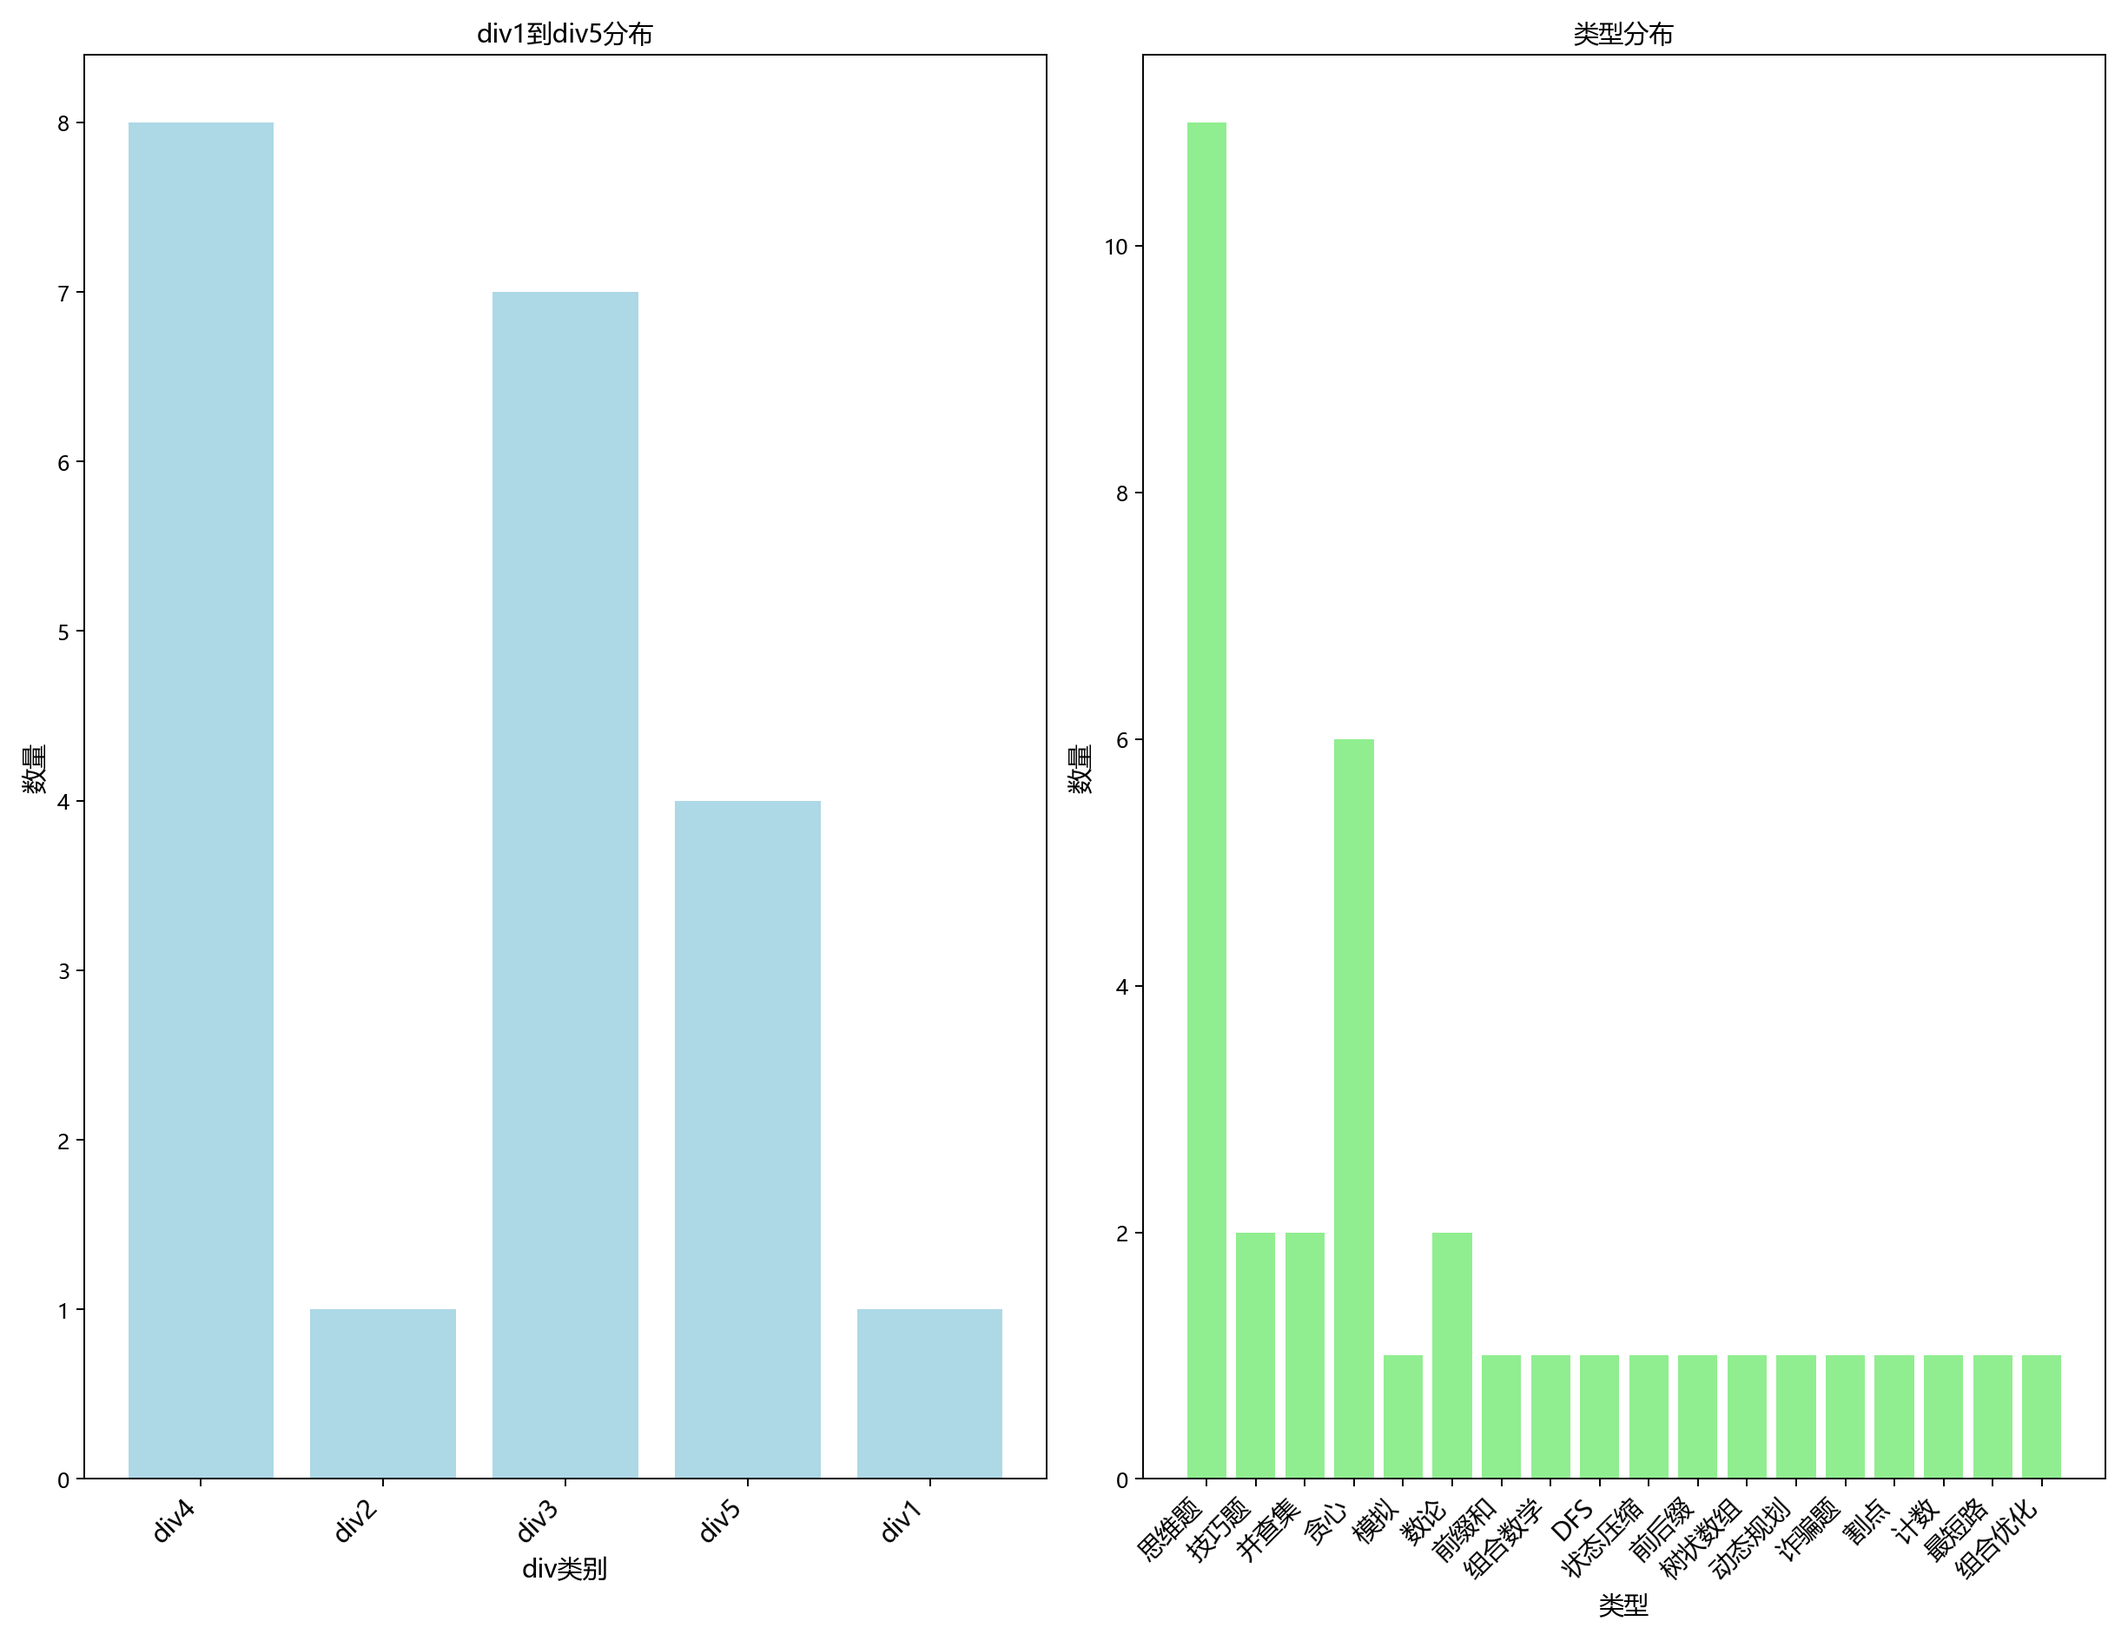
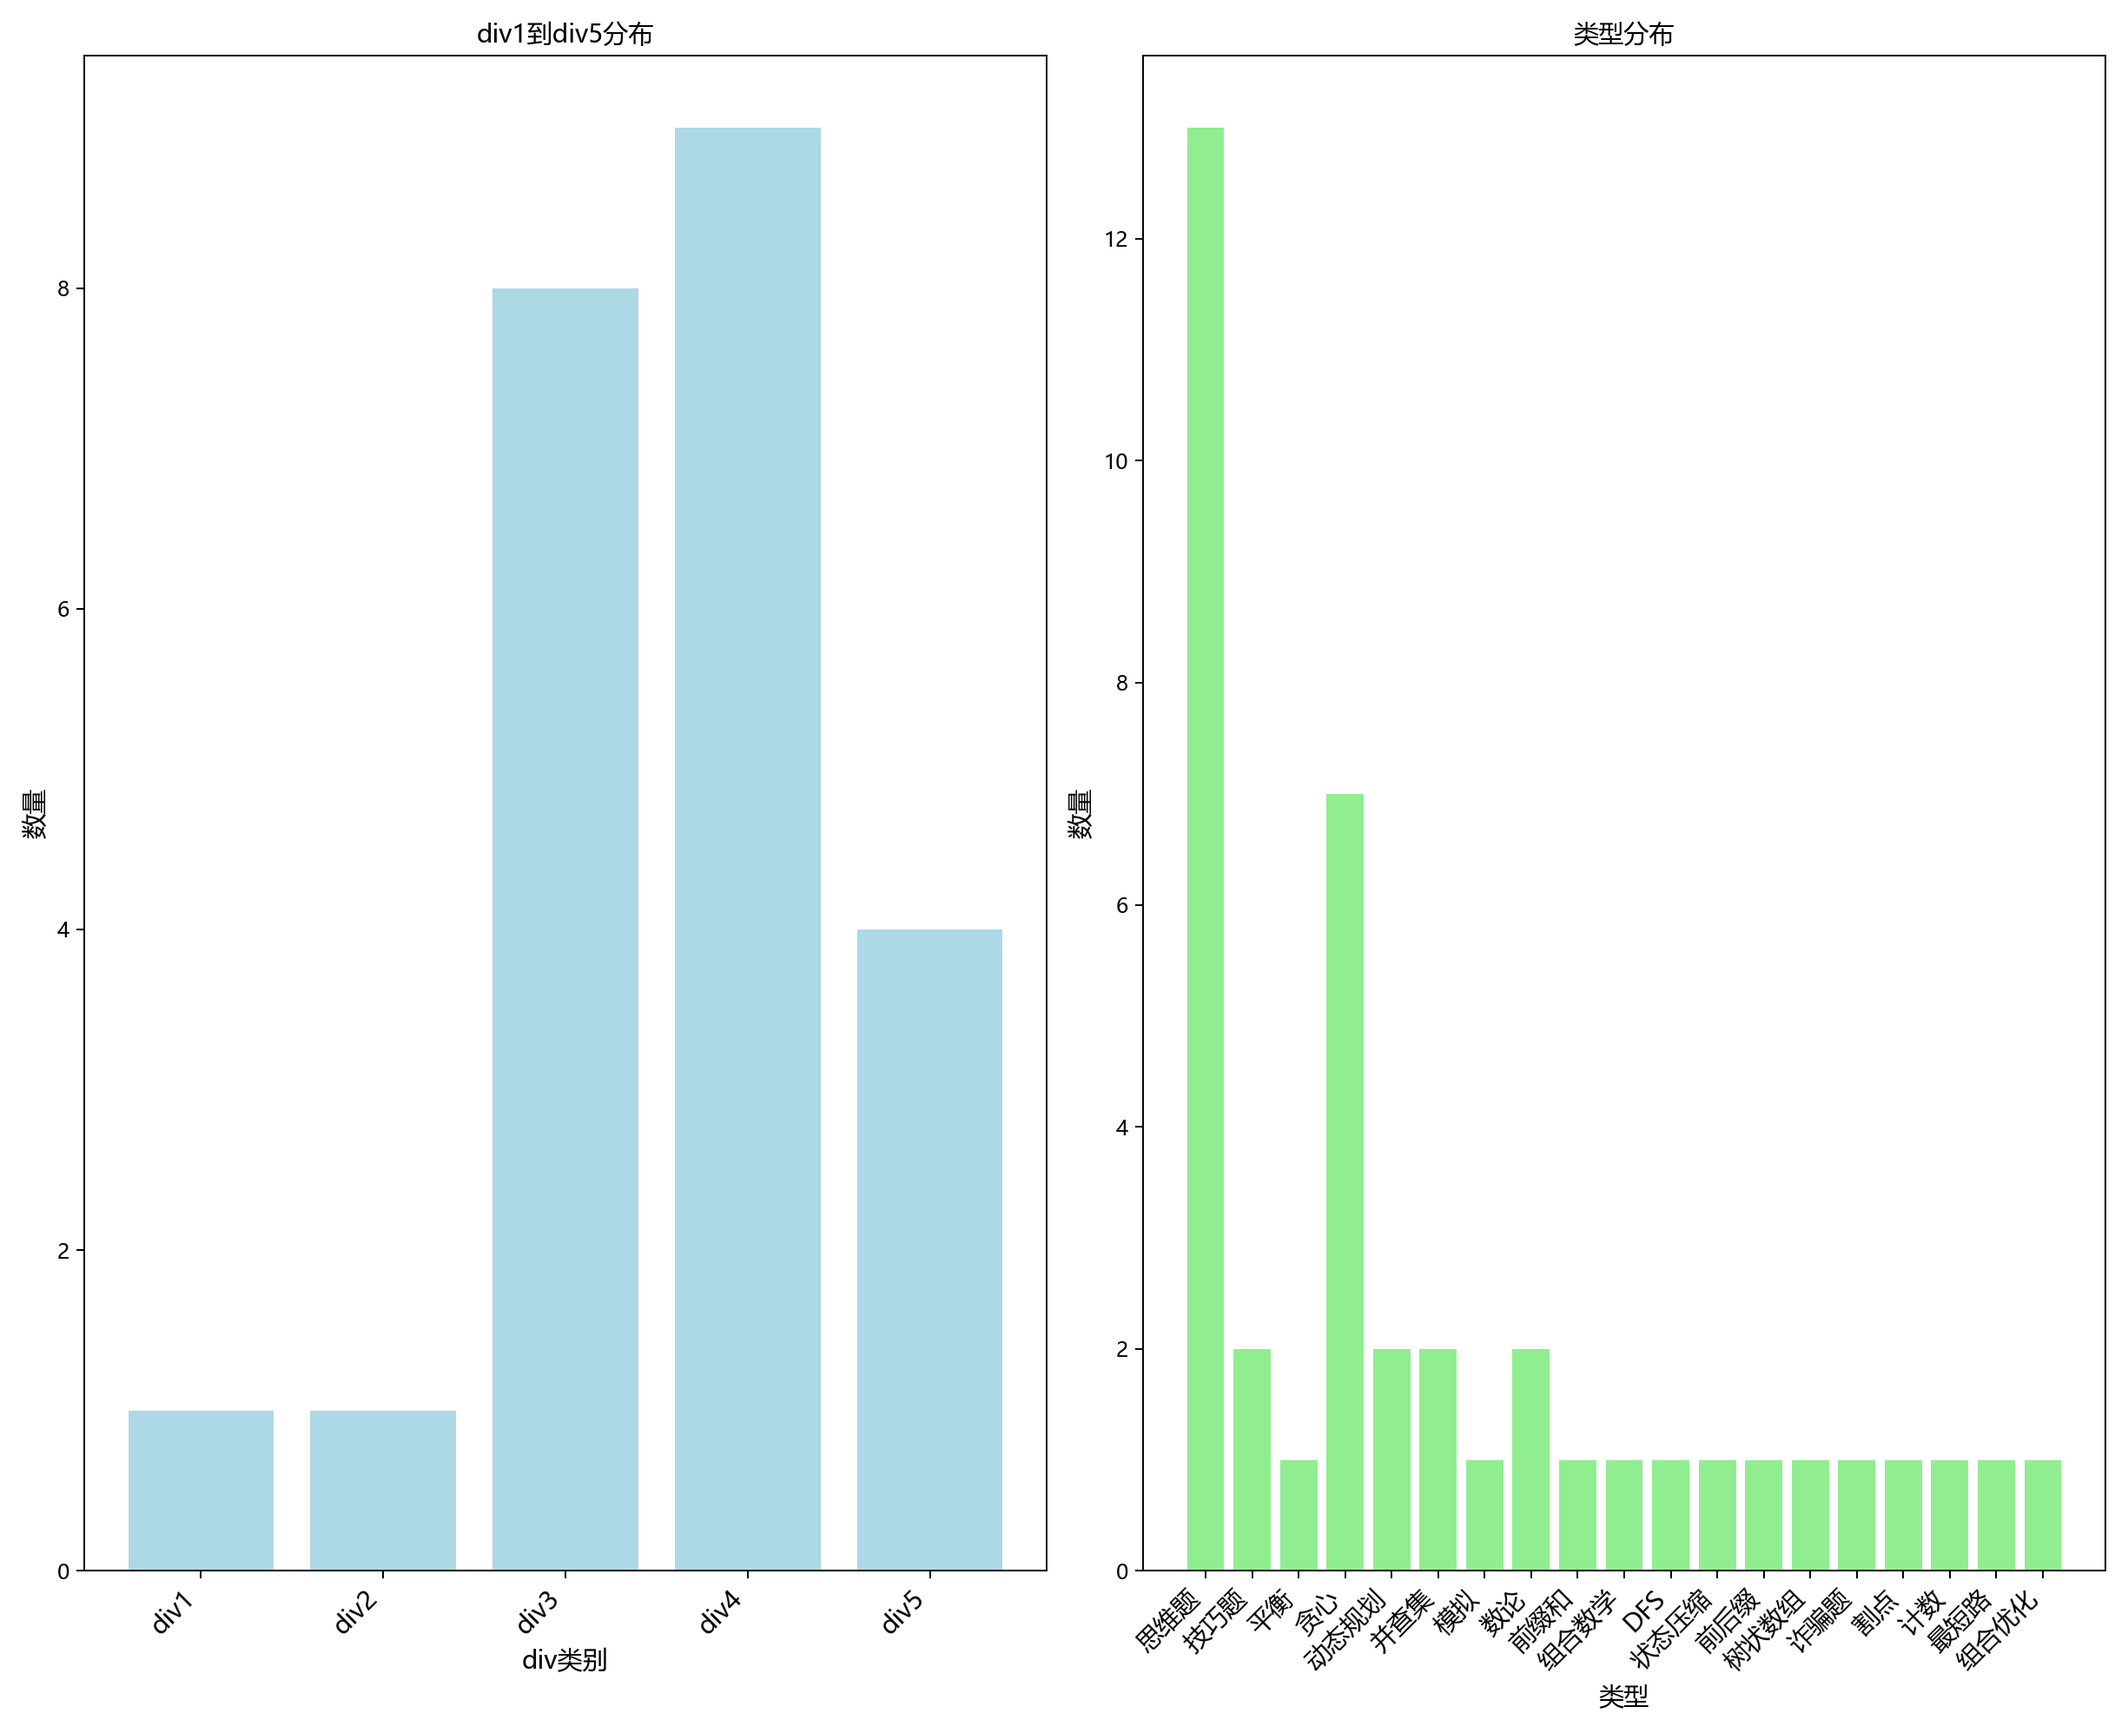
d

diff --git a/算法/周赛补题/数据收集脚本/src/main.py b/算法/周赛补题/数据收集脚本/src/main.py
@@ -156,15 +156,20 @@ def plot_statistics(div_counts, type_counts, save_path):
     # 创建图像并设置大小和分辨率
     plt.figure(figsize=(fig_width, fig_height), dpi=dpi)
 
+    # 指定 div 的排序顺序
+    div_order = ['div1', 'div2', 'div3', 'div4', 'div5']
+    # 按照指定顺序绘制 div 的条形图
+    ordered_div_counts = {div: div_counts[div] for div in div_order if div in div_counts}
+
     # div1-div5 分布
     plt.subplot(1, 2, 1)
-    plt.bar(div_counts.keys(), div_counts.values(), color='lightblue')
+    plt.bar(ordered_div_counts.keys(), ordered_div_counts.values(), color='lightblue')
     plt.title("div1到div5分布", fontsize=font_size)
     plt.xlabel("div类别", fontsize=font_size)
     plt.ylabel("数量", fontsize=font_size)
 
     # 动态调整字体大小，根据图像尺寸
-    plt.xticks(rotation=45, ha='right', fontsize=max(font_size, fig_width // num_divs))
+    plt.xticks(rotation=45, ha='right', fontsize=max(font_size, fig_width // len(ordered_div_counts)))
 
     # 类型分布
     plt.subplot(1, 2, 2)
@@ -182,7 +187,6 @@ def plot_statistics(div_counts, type_counts, save_path):
     # 保存图片
     plt.savefig(save_path)
     print(f"统计图表已保存到：{save_path}")
-
 
 def print_statistics(file_info, save_directory):
     """ 打印统计信息并调用可视化输出 """

diff --git a/算法/周赛补题/周赛65/div3_{思维题;平衡}_G.md b/算法/周赛补题/周赛65/div3_{思维题;平衡}_G.md
@@ -1,0 +1,1 @@
+# [转到题目](https://ac.nowcoder.com/acm/contest/92972/G)

diff --git a/算法/周赛补题/周赛65/div4_{贪心;思维题;动态规划}_F.md b/算法/周赛补题/周赛65/div4_{贪心;思维题;动态规划}_F.md
@@ -1,0 +1,1 @@
+# [转到题目](https://ac.nowcoder.com/acm/contest/92972/F)
